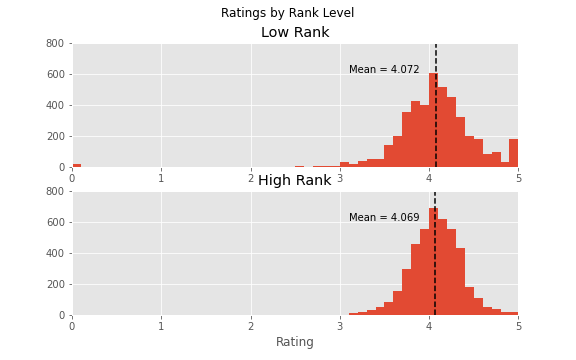
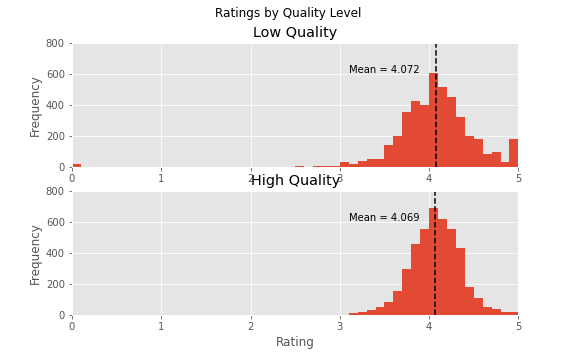
readme writeup full draft

diff --git a/README.md b/README.md
@@ -1,8 +1,8 @@
-# <div align="center"> Are higher ranked Goodreads "must read books" rated higher? </div>
-## <div align="center"> A 'Quality' Analysis </div>
+# <div align="center"> Goodreads Book Ratings - A "Quality" Analysis </div>
+## <div align="center"> Are higher quality Goodreads books rated higher? </div>
 
 ## Introduction
-Goodreads.com is a social media website that allows users to share, rate, and review books they have read (or haven't, who knows?). Readers are able to rate the books they read on a 5-point scale:
+Goodreads.com is a social media website that allows users to share, rate, and review books they have read (or haven't...who knows?). Readers are able to rate the books they read on a 5-point scale:
 
 * 1 star – didn't like it
 * 2 stars – it was OK
@@ -11,7 +11,7 @@ Goodreads.com is a social media website that allows users to share, rate, and re
 * 5 stars – it was amazing
 
 Another freature of goodreads is the book lists they put together. Go to their [Listopia](https://www.goodreads.com/list)
-page to check out some of the lists. Lists can be added to by anyone, and for that reason, lists can grow to be extremely large. Even lists that are supposed to be "Top 100" can have lists that stretch well past the century mark. Additionally, many books towards the end of the list (or not even near the end, depending on how long the list is) are books that were added by only one person and have only one vote. These books also are more likely to have full 5-star ratings, but this is because they have only been rated a handful of times. These books with one vote and a glowing rating because it was one person's favorite book, but no one else has ever heard of it, are dealt with below.
+page to check out some of the lists. Lists can be added to by anyone, and for that reason, lists can grow to be extremely large. Even lists that are supposed to be "Top 100" can stretch well past the century mark. Additionally, many books towards the end of the list (or not even near the end, depending on how long the list is) are books that were added by only one person and have only one vote. These books also are more likely to have full 5-star ratings, but this is because they have only been rated a handful of times.
 
 <hr>
 
@@ -24,9 +24,9 @@ Therefore, the question I will be asking is whether books that are "higher quali
 
 ## Data
 
-The data consists of the top 8,800 books from the aforementioned list. This amount of books allows for a robust data set before running too far into the list of "single vote and few rating" books described above. In fact, in a further effort to combat this problem, after running an initial test on the entire list, the data set is subsetted to 6,895 books that have been rated at least 10 times, and have at least two votes and the tests are run again on that sample.
+Data was scraped from the list described above. The data set consists of the top 8,800 books from the aforementioned list. This quantity of books allows for a robust data set before running too far into the list of "single vote and few rating" books described above. In fact, in a further effort to combat this problem, after running an initial test on the entire list, the data set is subsetted to 6,895 books that have been rated at least 10 times, and have at least two votes and the tests are run again on that sample.
 
-This data set contains several features for to analyze the question:
+This data set contains several features necessary to analyze the question:
 
 * Ranking of the book in the list
 * Score that determines the ranking in the list (based on votes and ratings)
@@ -34,30 +34,102 @@ This data set contains several features for to analyze the question:
 * Indicator of higher versus lower quality books
 
 Higher versus lower quality books in the list are defined by a simple metric. If they are in the top half of the list, they are considered "higher quality" books and if they are in the bottom half of the list, they are considered "lower quality" books.
-* Note - books that were tied on score share the same rank. As a result, the high and low ranked books categories do not each contain exactly half of the books.
+* Note - books that were tied on score share the same rank. As a result, the high and low quality books categories do not each contain exactly half of the books.
 
 <hr>
 
 ## Results
 
-### Ovearll data set (n=8,800)
+### All books (n=8,800)
 
 A scatter plot of average rating of each book against its score does not show any discernible difference in the mean of the ratings as score increases.
 
 ![Fig 1. Scatter Plot of Rating vs Score](img/scatter_rating_score.png)
 
-This histogram of the ratings show that they are normally distributed
+The histogram of the ratings show that they are normally distributed.
 * Mean = 4.071
 * Standard Deviation = 0.379
 
-![Histogram of overall ratings](img/all_ratings_histogram.png)
+![Fig 2. Histogram of overall ratings](img/all_ratings_histogram.png)
 
+When the ovearll data set is split by quality, ratings for both groups of books are normally distributed.
+* Low Quality Books
+    * Mean = 4.072
+    * Standard Deviation = 0.454
+* High Quality Books
+    * Mean = 4.069
+    * Standard Deviation: 0.286
 
+![Fig 3. Histogram of overall ratings by quality](img/all_ratings_by_rank_histogram.png)
 
+We can see that the mean rating score for the lower quality books is actually slightly higher than the mean rating score for the higher quality of books. This is likely largely due to the higher number of 5-star rated books, visible in the plot of low quality books.
 
-![Histogram of overall ratings by rank](img/all_ratings_by_rank_histogram.png)
-![Histogram of condensed data ratings](img/sufficient_ratings_histogram.png)
-![Histogram of condensed data ratings by rank](img/sufficient_ratings_by_rank_histogram.png)
-![Ttest distribution](img/2_sided_ttest_distribution.png)
+A Welch's t-test indicates there is no statistical difference between the ratings of the low and high quality books.
 
+* Hypotheses
+    * Null: Mean Low Quality Rating = Mean High Quality Rating
+    * Alternative: Mean Low Quality Rating ≠ Mean High Quality Rating
+
+* Results
+    * t = 0.370
+    * p = 0.711
+
+### Books with at least 2 votes and at least 10 ratings (condensed)
+
+A look at the scatter plots of the average rating of each book against its score for the "condensed" set of books looks very similar to the scatter plot for all books. Once again, the averege rating of almost every book is above 3, and the mean score does not appear to change, regardless of its score.
+
+![Fig 4. Scatter Plot of Rating vs Score for Condensed Set](img/sufficient_scatter_rating_score.png)
+
+The histogram of the ratings for the condensed set shows they are also normally distributed.
+
+* Mean = 4.060
+* Standard Deviation = 0.280
+
+![Fig 5. Histogram of condensed data ratings](img/sufficient_ratings_histogram.png)
+
+When the condensed data set is divided into low and high quality, the ratings for both groups of books are again normally distributed. Also noticeable is in this set, the number of 5-star rated books is much more comparable between the 2 groups, and the mean rating for the higher quality books is now higher than the mean rating for the lower quality books.
+
+* Low Quality Books
+    * Mean = 4.054
+    * Standard Deviation = 0.285
+* High Quality Books
+    * Mean = 4.066
+    * Standard Deviation: 0.275
+
+![Fig 6. Histogram of condensed data ratings by rank](img/sufficient_ratings_by_rank_histogram.png)
+
+The Welch's t-test on this data set also indicates that though the p-value is much smaller, there is still not sufficient evidence that there is a  difference between the ratings of the low and high quality books.
+
+* Hypotheses
+    * Null: Mean Low Quality Rating = Mean High Quality Rating
+    * Alternative: Mean Low Quality Rating ≠ Mean High Quality Rating
+
+* Results
+    * t = -1.712
+    * p = 0.087
+
+![Fig 7. Ttest distribution](img/2_sided_ttest_distribution.png)
+
+<hr>
+
+## Conclusions
+
+I was not able to find evidence that there is a difference in the average ratings of higher quality books and lower quality books on Goodreads. This means I can't trust the ratings (or at least not only the ratings) when determining the quality of a book.
+
+<hr>
+
+## Further Research
+
+I would love to dive farther into how readers rate books on Goodreads. There many ideas and theories I would love to test.
+* If I broke up the groups of books into smaller tiers, would I see a differece then? In other words, maybe I would be able to see a pattern emerge if I looked at the top 100 books vs. other groups of 100.
+* Is length of book associated with rating? I suspect there may be a sweet spot for length where readers feel there is a solid story without it dragging on too long.
+* Is publication year associated with rating? Do people rate older "classics" higher? Are they more exicted about new books?
+
+<hr>
+
+## Final Word
+
+I have read 21 of the top 100 books on the list, with two more currently waiting on my bookshelf. How many have you read? Follow the link below and count them up!
+
+[Books Everyone Should Read At Least Once](https://www.goodreads.com/list/show/264.Books_That_Everyone_Should_Read_At_Least_Once)
 
